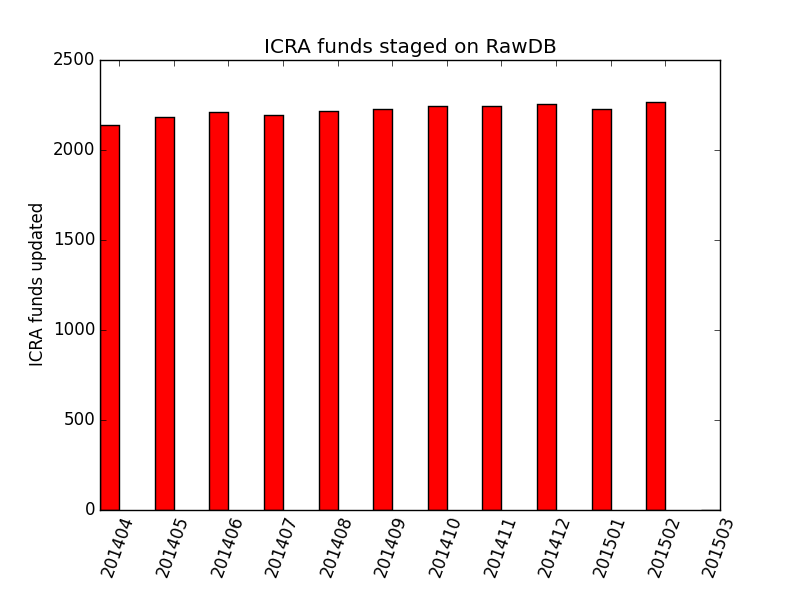
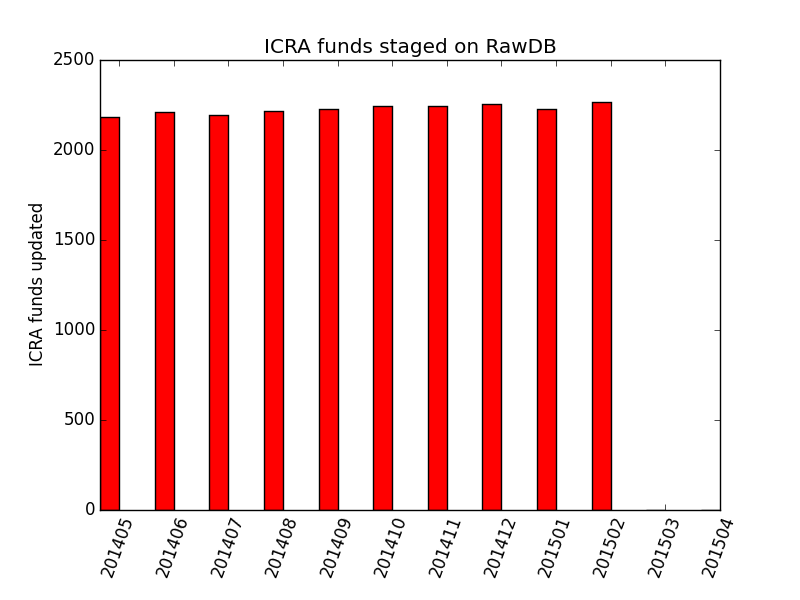
Refactored graph class
Subclassed the bar graph and stacked bar graph functionality

diff --git a/SQLHelper.py b/SQLHelper.py
@@ -17,7 +17,6 @@ cursor = cnxn.cursor()
 
 class graph:
 
-
 	colorarray = ['r','b','g','y','c','m']
 	width = .35
 
@@ -38,12 +37,40 @@ class graph:
 		plt.xticks(rotation=70)
 		plt.gcf().subplots_adjust(bottom=0.15)
 
+	# def generateGraph(self):
+	# 	self.ax.bar(self.ind, self.y, self.width, color='r')
+	# 	plt.savefig(self.destination)
+	# 	plt.clf()		
+
+	# def generateStackedGraph(self):
+	# 	barlist = []
+	# 	bottombar = [0]*len(self.y[0])
+	# 	for index, bars in enumerate(self.y):
+	# 		barlist.append(self.ax.bar(self.ind, bars, self.width, color=self.colorarray[index], bottom = bottombar)[0])
+	# 		bottombar = [i+bars[index] for index,i in enumerate(bottombar)]
+
+	# 	lgd = plt.legend(barlist,self.legend,bbox_to_anchor=(1.05, 1), loc=2, borderaxespad=0.)
+	# 	plt.savefig(self.destination, bbox_extra_artists=(lgd,), bbox_inches='tight')
+	# 	plt.clf()
+
+class barGraph(graph):
+
+	def __init__(self,x,y,title,ylable,destination,N=9,legend=None):
+		graph.__init__(self,x,y,title,ylable,destination,N,legend)
+
 	def generateGraph(self):
+		print self.x,self.y,self.title,self.ylable,self.destination,self.N
 		self.ax.bar(self.ind, self.y, self.width, color='r')
 		plt.savefig(self.destination)
-		plt.clf()		
+		plt.clf()
 
-	def generateStackedGraph(self):
+class stackedBarGraph(graph):
+
+	def __init__(self,x,y,title,ylable,destination,N=9,legend=None):
+		graph.__init__(self,x,y,title,ylable,destination,N,legend)
+
+
+	def generateGraph(self):
 		barlist = []
 		bottombar = [0]*len(self.y[0])
 		for index, bars in enumerate(self.y):
@@ -52,7 +79,7 @@ class graph:
 
 		lgd = plt.legend(barlist,self.legend,bbox_to_anchor=(1.05, 1), loc=2, borderaxespad=0.)
 		plt.savefig(self.destination, bbox_extra_artists=(lgd,), bbox_inches='tight')
-		plt.clf()
+		plt.clf()				
 
 #function to generate a trailing monthly list and execute a general query function on those months. Used by most of the processing
 
@@ -117,7 +144,7 @@ def generateAssetGraph(date):
 	monthsback = 12
 	mon, coun = generateTrailingMonthlyLists("Asset",getAssetsUpdatedThisMonth,monthsback,date)
 	coun = [x[0] for x in coun]
-	assetGraph = graph(mon,coun,'Assets updated per month','Assets updated',"./Static/asset",monthsback)
+	assetGraph = barGraph(mon,coun,'Assets updated per month','Assets updated',"./Static/asset",N=monthsback)
 	assetGraph.generateGraph()
 
 #ASSET THIS MONTH PROCESSING
@@ -196,8 +223,8 @@ def generateNewFundsGraph(date = datetime.datetime.now()):
     mon, coun = generateTrailingMonthlyLists("funds",getNewFundsThisMonth,monthsback,date)
     coun = zip(*coun)
 
-    newFundsGraph = graph(mon,coun,"New Funds per month","New funds","./Static/newFunds",N=monthsback,legend=["ASIA","OFF","EURO","NA","AUST"])
-    newFundsGraph.generateStackedGraph()
+    newFundsGraph = stackedBarGraph(mon,coun,"New Funds per month","New funds","./Static/newFunds",N=monthsback,legend=["ASIA","OFF","EURO","NA","AUST"])
+    newFundsGraph.generateGraph()
 
 
 #ICRA processing
@@ -222,7 +249,7 @@ def generateICRAGraphRawDB(date = datetime.datetime.now()):
 	mon, coun = generateTrailingMonthlyLists("ICRARawDB",getICRAaddedThisMonthRawDB,monthsback,date)
 	coun = [x[0] for x in coun]
 	print coun,mon
-	ICRARawDB = graph(mon,coun,'ICRA funds staged on RawDB','ICRA funds updated',"./Static/ICRARawDB",monthsback)
+	ICRARawDB = barGraph(mon,coun,'ICRA funds staged on RawDB','ICRA funds updated',"./Static/ICRARawDB",monthsback)
 	ICRARawDB.generateGraph()
 	#generateGraph(mon,coun,'ICRA funds staged on RawDB','ICRA funds updated',"./Static/ICRARawDB",monthsback)
 
@@ -246,7 +273,7 @@ def generateICRAGraph(date = datetime.datetime.now()):
 	monthsback = 12
 	mon, coun = generateTrailingMonthlyLists("ICRA",getICRAaddedThisMonth,monthsback,date)
 	coun = [x[0] for x in coun]
-	ICRAGraph = graph(mon,coun,'ICRA funds updated/new on siGlobalResearch','ICRA funds updated/new',"./Static/ICRA",monthsback)
+	ICRAGraph = barGraph(mon,coun,'ICRA funds updated/new on siGlobalResearch','ICRA funds updated/new',"./Static/ICRA",monthsback)
 	ICRAGraph.generateGraph()
 	#generateGraph(mon,coun,'ICRA funds updated/new on siGlobalResearch','ICRA funds updated/new',"./Static/ICRA",monthsback)
 
